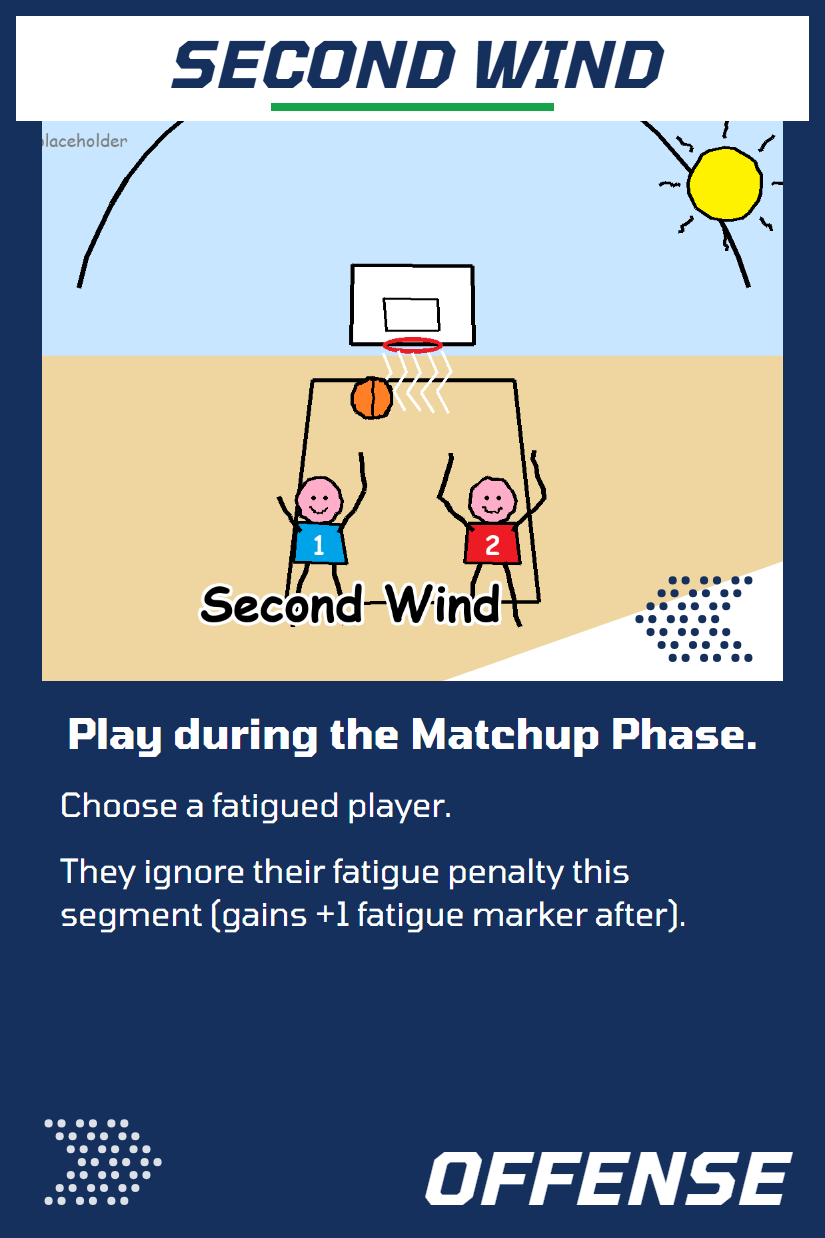
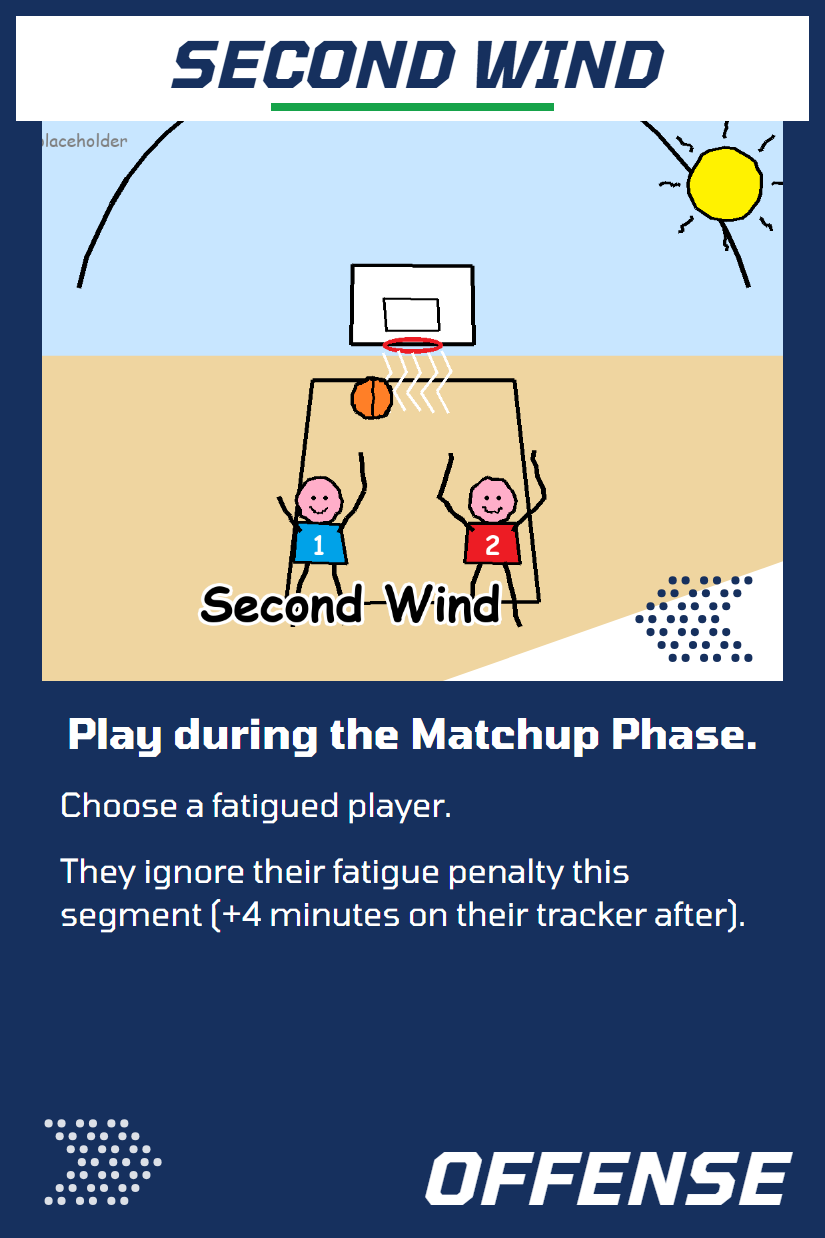
fix(strats): one name per card (Find the Open Teammate); Second Wind's text says the 4 minutes it costs
The user said yes to renaming the second Extra Pass back; "Find the Open
Man" would break the they/their rule, so it is Find the Open Teammate.
Second Wind's text promised a fatigue marker; the engine adds 4 minutes.

Changed region(s): [[0.2727, 0.706, 0.9091, 0.7674]]

diff --git a/src/game/strats.js b/src/game/strats.js
@@ -6,7 +6,7 @@ export const STRATS = [
   { id:'stagger_action',      name:'Stagger Action',     phase:'matchup',  side:'off', copies:2, locked:false, color:'#0284C7', rarity:'uncommon',
     desc:'One player with Speed 13+ and one with a 3PT Bonus each gain +2 Speed for this segment.' },
   { id:'second_wind',         name:'Second Wind',        phase:'matchup',  side:'off', copies:2, locked:false, color:'#16A34A', rarity:'common',
-    desc:'Choose a fatigued player. They ignore their fatigue penalty this segment (gains +1 fatigue marker after).' },
+    desc:'Choose a fatigued player. They ignore their fatigue penalty this segment (+4 minutes on their tracker after).' },
   { id:'chip_on_shoulder',    name:'Chip on the Shoulder', phase:'matchup', side:'off', copies:2, locked:false, color:'#D97706', rarity:'uncommon',
     desc:'Player with salary ≤$250 gets +3 Speed and +3 Power this segment. If they now have a positive roll bonus, draw a card.' },
   { id:'defensive_stopper',   name:'Defensive Stopper',  phase:'matchup',  side:'def', copies:2, locked:false, color:'#1D4ED8', rarity:'common',
@@ -220,7 +220,7 @@ export const STRATS = [
   { id:'transition_outlet',   name:'Transition Outlet',  phase:'scoring',  side:'off', copies:2, locked:false, color:'#0E7490', rarity:'common',
     desc:'Spend 1 Rebound and 1 Assist: a player with a Speed advantage announces a 3PT or Paint Shot Check at +2. Hit: +1 Assist.' },
   // Reactions — offense
-  { id:'find_the_open_man',   name:'Extra Pass',         phase:'reaction', side:'off', copies:2, locked:false, color:'#0369A1', rarity:'common',
+  { id:'find_the_open_man',   name:'Find the Open Teammate', phase:'reaction', side:'off', copies:2, locked:false, color:'#0369A1', rarity:'common',
     desc:'The opponent has a Double Team on the floor: a player of yours they are NOT trapping gets +4 to their scoring roll.' },
   { id:'putback_specialist',  name:'Putback Specialist', phase:'reaction', side:'off', copies:2, locked:false, color:'#0284C7', rarity:'uncommon',
     desc:'After your player misses a shot check, spend 2 Rebounds: any player of yours announces a Paint Shot Check at +3. Hit: the rebound is theirs.' },

diff --git a/src/game/execCard.js b/src/game/execCard.js
@@ -1850,7 +1850,7 @@ function resolveCard(game, teamKey, cardId, opts = {}) {
       if (!g.tempEff[teamKey]) g.tempEff[teamKey] = {};
       g.tempEff[teamKey]['r' + idx] = (g.tempEff[teamKey]['r' + idx] || 0) + 4;
       g.lastDoubleTeam = null;
-      addLog(g, teamKey, `Extra Pass: ${oppT.starters[dt.targetIdx]?.name} is trapped — ${player?.name} +4 roll`);
+      addLog(g, teamKey, `Find the Open Teammate: ${oppT.starters[dt.targetIdx]?.name} is trapped — ${player?.name} +4 roll`);
       break;
     }
     case 'putback_specialist': {
